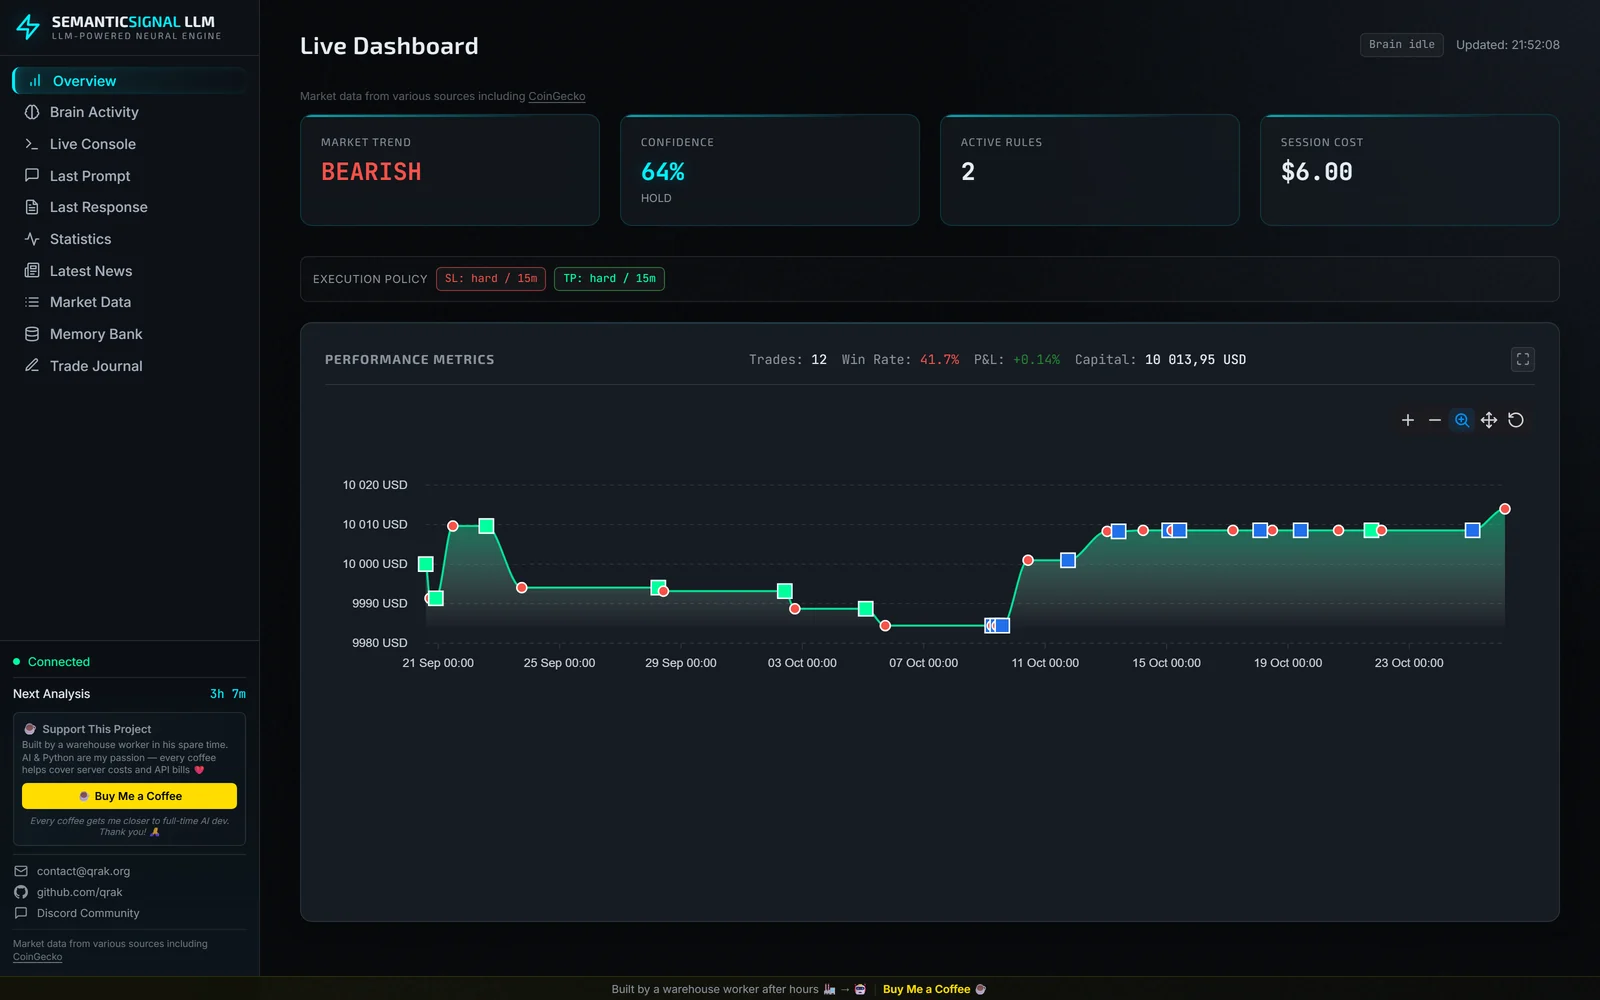
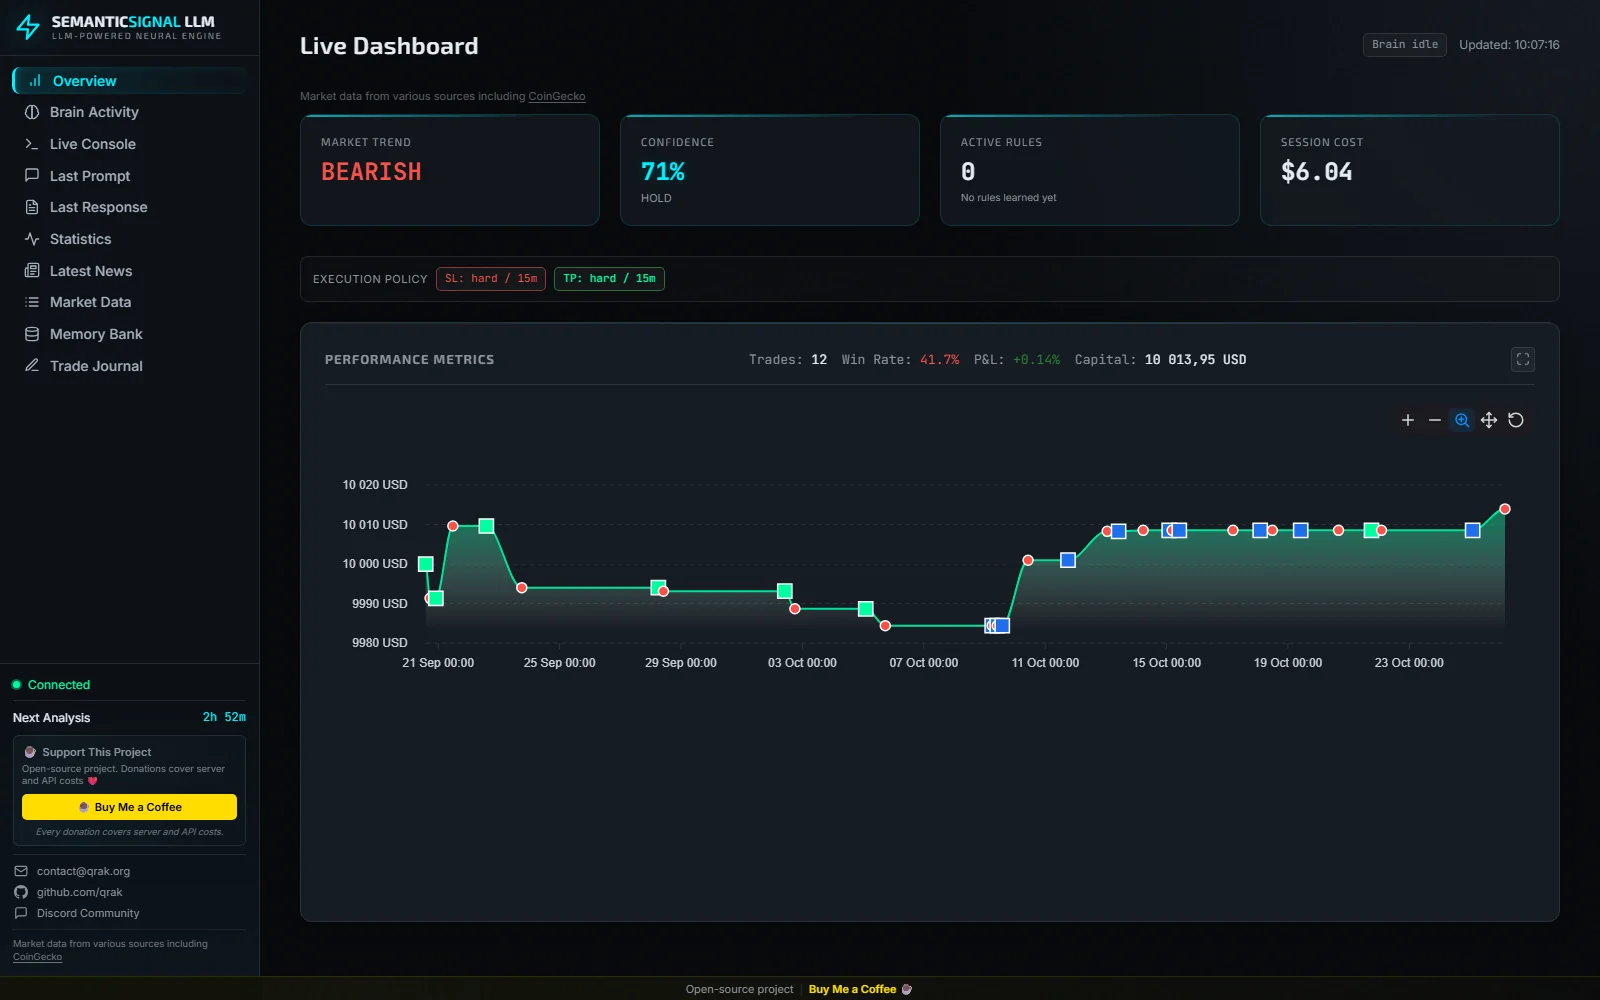
docs(prose): the project pages describe the system, not the author
The dashboard landing page carried an "About the Author" block: a day job, a city,
availability wording, a degree disclaimer and a stale test count. It is now a short
project note with the same links, and the footer and the dashboard's donation card and
supporter banner lost the personal framing ("warehouse worker", "after hours", "my
passion", "gets me closer to full-time AI dev").

The README screenshots were retaken from the running dashboard, because the old ones
showed that same card and a stale "ACTIVE RULES 2" (the store now holds zero active
rules). The three unreferenced screenshots were deleted; nothing linked them.

Wording, not facts, changed in the changelog: "honest labels" -> "explicit labels",
"Prompt honesty pass" -> "Prompt accuracy pass", "the honest way to verify" -> "shows
what a retirement changes", "Honest status" -> "status (paper capital, testnet executor,
profitability not established)", and "our own PatternAnalyzer" -> "the repository's own".

A gate pins the rule: tests/domain_infra/test_public_copy.py rejects a person, an
employer, a job title, availability wording, a personal place or a first-person voice in
the tracked markdown and in the shipped dashboard copy (the bot quoting itself is
allowed). CONTRIBUTING states the same rule for changelog entries, commit messages and
release notes.

Verified: pytest tests -q -> 2590 passed, 0 failed, 0 skipped; ruff, pyright and the
[…]

diff --git a/src/dashboard/static/landing.html b/src/dashboard/static/landing.html
@@ -559,42 +559,22 @@
 
 <section>
     <div class="container">
-        <h2><span>👨💻</span> About the Author</h2>
+        <h2><span>🧪</span> Project</h2>
 
         <div class="about">
-            <div class="about-avatar">👨💻</div>
+            <div class="about-avatar">🧪</div>
             <div class="about-text">
-                <h3>@qrak</h3>
+                <h3>Semantic Signal</h3>
 
                 <p>
-                    <strong>Hobbyist developer — not a professional backend engineer.</strong> Semantic Signal
-                    is an open-source research loop I build after hours, on my own time, where every line was
-                    written, tested and understood by me. My strength: I go deep rather than wide.
+                    An open-source research project: an LLM decides on BTC/USDC from a chart image, a
+                    numeric indicator stack and a memory of closed trades, and deterministic checks sit
+                    between the decision and the order. Capital is simulated and the executor runs against
+                    an exchange testnet.
                 </p>
                 <p>
-                    By day I'm a <strong>Supply Controller, Inbound Operations</strong> — so I came to this
-                    project from warehouse shifts rather than from a trading desk or a dev team. Right now
-                    I'm building the trade executor: the dedicated service that carries this system from
-                    paper trading to live exchange orders.
-                </p>
-
-                <div style="display:flex;gap:20px;flex-wrap:wrap;margin:16px 0;font-size:.85em;color:var(--muted)">
-                    <div>
-                        <strong style="color:var(--text)">📍</strong> Wrocław, Poland<br>
-                        <strong style="color:var(--text)">🌍</strong> Remote or on-site — open to offers<br>
-                        <strong style="color:var(--text)">🗣</strong> Polish (native) + English (technical)
-                    </div>
-                    <div>
-                        <strong style="color:var(--text)">🐍</strong> Python 3.13, FastAPI, asyncio<br>
-                        <strong style="color:var(--text)">🤖</strong> LLMs, prompt engineering, ChromaDB<br>
-                        <strong style="color:var(--text)">🛠</strong> DI patterns, pytest, ruff, Cloudflare
-                    </div>
-                </div>
-
-                <p style="font-size:.85em;color:var(--muted)">
-                    No computer-science degree and no professional dev job — the code is the argument:
-                    2,514 automated tests, a clean ruff run on its source tree, and a live dashboard you can
-                    inspect right now. Source, history and corrections are all public.
+                    The engine, the dashboard and the indicators live in one repository; the showcase site
+                    is built and deployed from its own. Source, history and corrections are public.
                 </p>
 
                 <div style="margin-top:12px">
@@ -615,7 +595,7 @@
 
 <footer>
     <p>
-        Built with ❤ in Wrocław, Poland by <a href="https://github.com/qrak" target="_blank" rel="noopener">@qrak</a>
+        Open-source project · <a href="https://github.com/qrak" target="_blank" rel="noopener">@qrak</a>
         · <a href="https://semanticsignal.qrak.org">Dashboard</a>
         · <a href="https://discord.gg/ZC48aTTqR2">Discord</a>
         · <a href="https://www.buymeacoffee.com/qrak">Buy Me a Coffee</a>

diff --git a/src/dashboard/static/index.html b/src/dashboard/static/index.html
@@ -157,8 +157,7 @@
                         <span>Support This Project</span>
                     </div>
                     <p class="donation-story">
-                        Built by a warehouse worker in his spare time. AI &amp; Python are my passion —
-                        every coffee helps cover server costs and API bills ❤
+                        Open-source project. Donations cover server and API costs ❤
                     </p>
 
                     <a href="https://www.buymeacoffee.com/qrak" target="_blank" rel="noopener noreferrer"
@@ -167,7 +166,7 @@
                     </a>
 
                     <p class="donation-ps">
-                        Every coffee gets me closer to full-time AI dev. Thank you! 🙏
+                        Every donation covers server and API costs.
                     </p>
                 </div>
 
@@ -513,7 +512,7 @@
 
     <div class="supporter-banner" role="complementary" aria-label="Support this project">
         <span class="supporter-text">
-            Built by a warehouse worker after hours 🏭 → 🤖
+            Open-source project
             <span class="supporter-divider">|</span>
             <a href="https://www.buymeacoffee.com/qrak" target="_blank" rel="noopener noreferrer" class="supporter-link">
                 Buy Me a Coffee ☕

diff --git a/tests/domain_infra/test_public_copy.py b/tests/domain_infra/test_public_copy.py
@@ -1,0 +1,88 @@
+"""The public copy names the project, not the author.
+
+`src/dashboard/static/` is served verbatim and every tracked `.md` file is read on GitHub, so a
+personal phrase that lands in either is published, not merely stored. This gate fails when a
+personal identifier, a career framing or a first-person voice returns to either surface.
+
+The phrases that a reader needs — paper trading, profitability not established, the sample size,
+the fees the ledger does not book — are facts about the system and stay. What this gate rejects is
+material that belongs to a personal profile: names, employers, job titles, availability, degrees,
+locations, and the "I built this after hours" register.
+"""
+
+from __future__ import annotations
+
+import re
+from pathlib import Path
+
+import pytest
+
+REPO_ROOT = Path(__file__).resolve().parents[2]
+
+DASHBOARD_COPY = (
+    "src/dashboard/static/index.html",
+    "src/dashboard/static/landing.html",
+)
+
+# A person, an employer or a career framing: none of it describes this system.
+PERSONAL_PHRASES = (
+    r"Piotr",
+    r"Kurnicki",
+    r"\bBSH\b",
+    r"Sprzęt Gospodarstwa",
+    r"Supply Controller",
+    r"open to offers",
+    r"hobbyist",
+    r"no computer-science degree",
+    r"professional backend engineer",
+    r"remote or on-site",
+)
+
+# Geography only matters when it is the author's; the market is BTC/USDC, not a city.
+PERSONAL_PLACES = (r"Wrocław", r"Wroclaw")
+
+# First person in shipped dashboard copy, where there is no code for it to hide in. The bare
+# pronoun "I" is left out on purpose: the dashboard quotes the bot asking itself "Have I seen this
+# pattern before?", which is the product speaking, not the author.
+FIRST_PERSON = (r"\bI'm\b", r"\bI've\b", r"\bI build\b", r"\bmy\b", r"\bMy\b")
+
+
+def _markdown_files() -> list[Path]:
+    """Every tracked-looking markdown file: root, docs/ and the per-package AGENTS files."""
+    root = sorted(REPO_ROOT.glob("*.md"))
+    docs = sorted((REPO_ROOT / "docs").rglob("*.md"))
+    agents = sorted((REPO_ROOT / "src").rglob("AGENTS.md"))
+    return root + docs + agents
+
+
+@pytest.mark.parametrize(
+    "phrase",
+    [pytest.param(phrase, id=phrase) for phrase in PERSONAL_PHRASES + PERSONAL_PLACES],
+)
+def test_markdown_has_no_personal_identifiers(phrase):
+    offenders = []
+    for path in _markdown_files():
+        for number, line in enumerate(path.read_text(encoding="utf-8").splitlines(), 1):
+            if re.search(phrase, line, re.IGNORECASE):
+                offenders.append(f"{path.relative_to(REPO_ROOT)}:{number}")
+    assert not offenders, f"{phrase!r} names a person, employer or career framing: {offenders}"
+
+
+@pytest.mark.parametrize("relative", DASHBOARD_COPY)
+@pytest.mark.parametrize("phrase", [pytest.param(p, id=p) for p in PERSONAL_PHRASES + PERSONAL_PLACES])
+def test_shipped_dashboard_copy_has_no_personal_identifiers(relative, phrase):
+    text = (REPO_ROOT / relative).read_text(encoding="utf-8")
+    assert not re.search(phrase, text, re.IGNORECASE), (
+        f"{relative} names a person, employer or career framing: {phrase!r}"
+    )
+
+
+@pytest.mark.parametrize("relative", DASHBOARD_COPY)
+@pytest.mark.parametrize("phrase", [pytest.param(p, id=p) for p in FIRST_PERSON])
+def test_shipped_dashboard_copy_is_not_first_person(relative, phrase):
+    offenders = [
+        number
+        for number, line in enumerate((REPO_ROOT / relative).read_text(encoding="utf-8").splitlines(), 1)
+        if re.search(phrase, line)
+    ]
+    assert not offenders, f"{relative} speaks in the first person at lines {offenders}: {phrase!r}"

diff --git a/CHANGELOG.md b/CHANGELOG.md
@@ -22,7 +22,8 @@
 - **`src/trading/vector_memory_rules.py`**: `deactivate_semantic_rule()` retires a rule with
   `active: false` plus a reason, keeping its text and counters (no read path sees it).
 - **`scripts/brain_rules.py`**: `list`, `check` and `deactivate` for a brain directory. `check`
-  prints the exact block a prompt would receive, which is the honest way to verify a retirement.
+  prints the exact block a prompt would receive, which shows what a retirement changes before it
+  is relied on.
 
 ### Why
 The live store carried `rule_anti_pattern_long_bullish_stop_loss_sl_hard_15m_tp_hard_15m`
@@ -365,7 +366,7 @@ averaged a `confluence_count` of 0 (a field not yet recorded on 20 Sep) with one
 - Offline historical repair is fingerprint-gated and backed up; sandbox-only closes are quarantined without changing their execution prices. Untraceable semantic-rule validation feedback is reset explicitly rather than guessed.
 
 
-## 2026-10-16 — Pattern states: durations, honest labels, canonical ATR, prompt legend
+## 2026-10-16 — Pattern states: durations, explicit labels, canonical ATR, prompt legend
 
 ### Changed
 - **Prompt legend**: `## Key Terminology` in `src/analyzer/prompts/template_manager.py` now names the calculator's fixed windows (RSI 14 Wilder smoothing, MACD 12/26/9 EMA, Stochastic 14/3/3, Bollinger 20 with 2 population standard deviations, ATR and ATR% 20 Wilder, Keltner EMA(20) of close ± 1.5 × the same Wilder ATR(20), ADX/±DI 14, Choppiness 14, CCI 14, ROC 14, PPO 12/26, CMF 20, MFI 14, Force Index 20, VWAP/TWAP 20, Donchian 20, Chandelier 20 × 3 ATR) and every detector threshold (RSI 30/70; Stochastic 20/80 with crosses counted inside 30/70; volume spike ≥2.5× and dry-up ≤0.5× the 20-bar average; climax volume ≥3× the 50-bar average; ATR spike ≥1.5× the previous 14-bar average; BB squeeze = band width inside the lowest 20% of 120 bars; TTM squeeze = the bands inside a Keltner channel; MACD histogram trend = majority of its last 3 changes; volatility trend = 6 of the last 9 ATR changes; accumulation/distribution = up-bar share above 60% / below 40% over 10 bars with `strength = |share - 0.5| × 2`; volume-price divergence ±2%/volume below -15%; divergence spacing 5 bars), plus the `now` / `N bars ago` / `for N bars` convention and the 25-line cap. The legend grows 1852 → 3574 characters (≈ +430 prompt tokens on a ~100k-token budget), and the printed Wilder ATR is now named instead of leaving the model to assume the KC's smoothing.
@@ -1265,7 +1266,7 @@ origin is fetched at most once per 300 s, and an unchanged chart answers 304.
 
 ### Changed
 - **Landing page (`website/src/pages/index.astro`) rewritten.** The scoreboard now includes the rows where this project loses — no real-money trading, no production history, not hosted for you — plus `?` wherever a competitor's documentation could not be verified, instead of a wall of ✘. A new "where every number comes from" section lists the repo paths behind each claim.
-- **`/story` rebuilt from `git log`.** Timeline dates are now the real ones: `chart_generator.py` 2025-12-22 (`git log --diff-filter=A`), `brain_experience` / `brain_context` / `brain_reflection` 2026-05-16, `.ai/` 2026-07-26, executor integration 2026-08-14, provider consolidation 2026-09-12. Added an "Honest status" section (paper capital, testnet executor last exercised 2026-08-15, profitability unproven) and an errata section listing the claims this site previously got wrong.
+- **`/story` rebuilt from `git log`.** Timeline dates are now the real ones: `chart_generator.py` 2025-12-22 (`git log --diff-filter=A`), `brain_experience` / `brain_context` / `brain_reflection` 2026-05-16, `.ai/` 2026-07-26, executor integration 2026-08-14, provider consolidation 2026-09-12. Added a status section (paper capital, testnet executor last exercised 2026-08-15, profitability not established) and a corrections section listing earlier claims that no longer matched the code.
 - **Claims removed:** "Kelly Criterion position sizing" (no Kelly code exists in `src/`; sizing is the model's proposal capped at 10% of capital with 1/2/3% fallbacks), "hard 1.5 R/R floor rejects the signal" (`min_rr_entry = 0.0`; EV is the only hard gate), "how the system earns real money" (executor runs with `ENABLE_TESTNET=true`), "zero lint errors" (`ruff check .` reports 22 findings), and the "1,270+ / 1,380+ automated tests" numbers.
 - **Test count is now generated from a run**, not typed: `1,549` collected / `1,532` passed / `17` skipped — `python -m pytest tests -q` on the Windows venv, 55s.
 - **Articles:** the `_ema_numba` sample was replaced with the real `supertrend_numba` from `src/indicators/trend/trend_indicators.py`; retrieval described as it works (`k=3` experiences, 20-trade stats, 5 blocked-trade snippets, 3 rules); the executor article rewritten around the seven `SafetyGuard` checks and the verdict journal, with the reconciliation caveat stated instead of a dead-letter queue that does not exist.
@@ -1290,7 +1291,7 @@ origin is fetched at most once per 300 s, and an unchanged chart answers 304.
 - **One shared floor policy.** `src/trading/rr_policy.py` (new) owns the entry floor: `max(config.MIN_RR_ENTRY, brain rr_borderline_min)`, plus normalization (`0` preserved, non-finite/negative values fall back safely). The prompt renderer and the executor both call `resolve_entry_rr_floor()`, so the model can no longer be shown a floor the executor does not enforce. Before this, `Config.MIN_RR_ENTRY` defaulted to `1.0` and an untrained brain always reported `rr_borderline_min = 0.5`, so a configured `0` never actually disabled the gate.
 - **`min_rr_entry` defaults to `0.0`** (`config/config.ini.example`, `Config.MIN_RR_ENTRY`, `BrainContextProvider`). With no learned floor the gate is inactive and R/R stays an EV input instead of a veto. The prompt now renders "No hard R/R floor is active" rather than the meaningless `R/R < 0.0: REJECTED` hard block.
 - **The brain can only add `0.5` or `1.0`, and only from evidence.** It needs at least 10 closed trades below 1.0 R/R (with at least one loss) before it looks at that bucket's expectancy: below −0.05R raises the floor to `1.0`, between −0.05R and `0` raises it to `0.5`, positive expectancy leaves it at `0.0`. The old ladder that jumped straight to `1.3`/`1.5`/`1.8` after 3 sub-threshold trades is gone, along with the choppiness hack that silently lowered the floor.
-- **Prompt honesty pass** (`template_manager.py`, `ev_formatter.py`): the prompt no longer calls R/R the only hard gate, documents the executor's SL/TP normalization (SL expanded to ≥1%, clamped to ≤10%, TP clamped to ≤50%, R/R recomputed from the corrected levels), labels the historical winning-average R/R and SL figures as guidance rather than caps, and points the PRE-FLIGHT CHECKLIST at Decision Rules instead of a stale section. The ADX trend threshold is read from the brain instead of a hardcoded 25.
+- **Prompt accuracy pass** (`template_manager.py`, `ev_formatter.py`): the prompt no longer calls R/R the only hard gate, documents the executor's SL/TP normalization (SL expanded to ≥1%, clamped to ≤10%, TP clamped to ≤50%, R/R recomputed from the corrected levels), labels the historical winning-average R/R and SL figures as guidance rather than caps, and points the PRE-FLIGHT CHECKLIST at Decision Rules instead of a stale section. The ADX trend threshold is read from the brain instead of a hardcoded 25.
 
 ### Tests
 - R/R floor assertions updated in `tests/domain_brain/test_vector_memory.py`, `test_brain_learning.py`, `test_prompt_template.py` and `tests/domain_trading/test_risk_management.py`, plus new coverage that a profitable low-R/R bucket keeps the floor at `0.0` and that the prompt drops the hard block when no floor is active.

diff --git a/CONTRIBUTING.md b/CONTRIBUTING.md
@@ -45,7 +45,8 @@ If your change touches prompts, parsing, trading logic, dashboard routes, or new
 
 - Update `README.md` when user-facing behavior changes.
 - Update docs under `docs/` when architecture or workflows change.
-- Update `CHANGELOG.md` for material behavior, configuration, dependency, API, or workflow changes. Add entries at the top; when the file grows, move the entries below the previous release into `docs/changelog-archive-<year>.md` and link them from the `## Archive` section. The changelog records what the code, the data and the deployment do — not the author's profile, availability or biography, which are not repository content; when the site moved to its own repository, one line saying so was enough.
+- Update `CHANGELOG.md` for material behavior, configuration, dependency, API, or workflow changes. Add entries at the top; when the file grows, move the entries below the previous release into `docs/changelog-archive-<year>.md` and link them from the `## Archive` section.
+- **Write about the system, not the author.** The changelog, commit messages, release notes and the copy under `src/dashboard/static/` describe what the code, the data and the deployment do. No first person ("I built", "my strength"), no biography, no day job, no availability or job-seeking wording, no degree or employer names, no personal geography — the handle `@qrak` and `contact@qrak.org` are the whole identity a repository page needs. Self-assessment is not a change entry: write what the old code did, what the new code does and what pins it, not that the old code was "honest" or that it "aged badly". Caveats that a reader needs (paper trading, profitability not established, sample size, fees not booked) stay, phrased as facts. `tests/domain_infra/test_public_copy.py` fails the suite when a personal or first-person phrase returns to the tracked copy.
 
 ## Branches, Versions and Releases
 

diff --git a/README.md b/README.md
@@ -6,7 +6,7 @@
 
 **Read this in:** [English](README.md) · [Polski](https://www.readme-i18n.com/qrak/LLM_trader?lang=pl) · [中文](https://www.readme-i18n.com/qrak/LLM_trader?lang=zh) · [日本語](https://www.readme-i18n.com/qrak/LLM_trader?lang=ja) · [한국어](https://www.readme-i18n.com/qrak/LLM_trader?lang=ko) · [Español](https://www.readme-i18n.com/qrak/LLM_trader?lang=es) · [Deutsch](https://www.readme-i18n.com/qrak/LLM_trader?lang=de) · [Português](https://www.readme-i18n.com/qrak/LLM_trader?lang=pt) · [Русский](https://www.readme-i18n.com/qrak/LLM_trader?lang=ru)
 
-![The live dashboard: 12 trades, 41.7% win rate, +0.14% P&L, session cost $6.00](docs/assets/dashboard-overview.webp)
+![The live dashboard: the paper-trading ledger, the current decision and zero active rules](docs/assets/dashboard-overview.webp)
 
 A single bot on BTC/USDC. Every four hours it renders the candles into a 1920×1080 chart, sends the
 image together with 79 Numba-compiled indicators, the news context and its own closed-trade memory

diff --git a/docs/changelog-archive-2026.md b/docs/changelog-archive-2026.md
@@ -84,7 +84,7 @@ Current entries: [../CHANGELOG.md](../CHANGELOG.md)
 ### Removed
 - **23 defensive checks purged total** — `getattr`/`isinstance`/`hasattr` on guaranteed types:
   - `post_mortem.py`: 14 `getattr(closed_position, ...)` → direct attribute access (Position/TradeDecision are dataclasses)
-  - `pattern_quality_scorer.py`: 4 `isinstance(pattern_list, list|str)` → patterns dict shape is fixed by our own PatternAnalyzer
+  - `pattern_quality_scorer.py`: 4 `isinstance(pattern_list, list|str)` → patterns dict shape is fixed by the repository's own PatternAnalyzer
   - `vector_memory.py`: 1 `isinstance(serialized, dict)` → `serialize_for_json` always returns dict for dict input
   - `brain.py` router: 2 `getattr(self.vector_memory, ...)` → injected service always has those attrs
   - `template_manager.py`: 3 `isinstance(data, dict)` + `getattr(self.config, ...)` → JSON parse + config attrs are guaranteed
